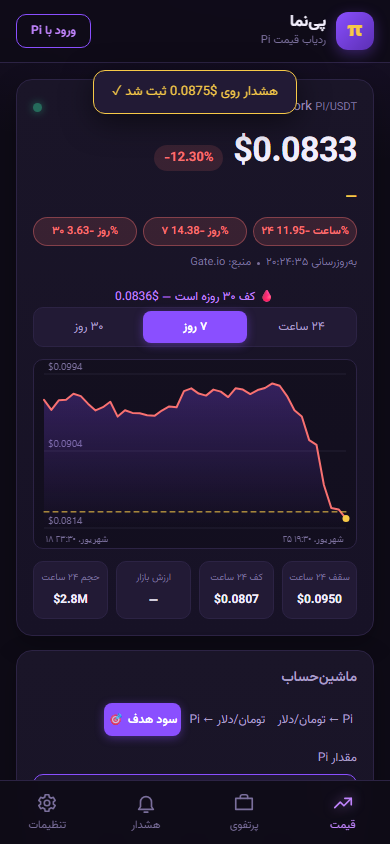
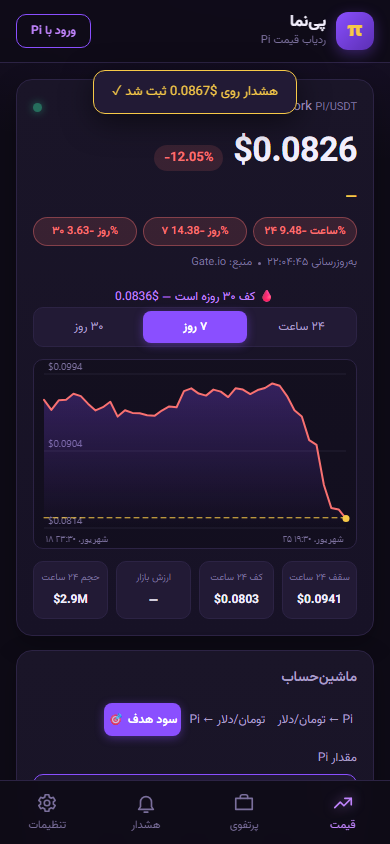
fix(cycle14): weekly portfolio chip now uses hist[7] (was oldest-of-60 or today → wrong/zero pct), reverse sync pfAvg→calcProfitAvg (one truth both directions), SW v10

diff --git a/test/render.js b/test/render.js
@@ -160,10 +160,17 @@ function t(name, cond, extra) {
   else { failed++; console.log('  ✗ ' + name + (extra ? ' → ' + extra : '')); }
 }
 
-/* seed رگرسیون: pfHistory با رکورد دیروز (مسیر بحرانی todayV که قبلاً میشکست) */
+/* seed رگرسیون: pfHistory با رکورد دیروز + ۸ رکورد (مسیر بحرانی todayV و چیپ هفتگی) */
 (function seedYesterday() {
   const y = new Date(Date.now() - 86400000).toLocaleDateString('en-CA');
   memStore['pinama.v2.pfHistory'] = JSON.stringify([{ d: y, v: 15 * 0.0900 }]);
+  // ۸ رکورد برای چیپ هفتگی: [0]=امروز (بعداً push میشود)، [1..7]=روزهای قبل با قیمتهای متفاوت
+  const seeds = [{ d: y, v: 1.35 }];
+  for (let i = 2; i <= 7; i++) {
+    const d = new Date(Date.now() - i * 86400000).toLocaleDateString('en-CA');
+    seeds.push({ d: d, v: 15 * (0.0800 + i * 0.001) }); // قدیمیها ~0.082–0.087
+  }
+  memStore['pinama.v2.pfHistory'] = JSON.stringify(seeds); // ۷ رکورد قبل از امروز
 })();
 
 /* اجرای DOMContentLoaded */
@@ -197,8 +204,9 @@ setTimeout(function () {
     } catch (e) { t('toman-first display toggles', false, e.message); }
     t('streak starts at 1 (not shown)', PiNama.storage.get('streak', 0) === 1 && getEl('streak-line').textContent === '', 'streak=' + PiNama.storage.get('streak', 0));
     t('live title set', String(document.title).indexOf('$0.0955') !== -1, 'got "' + document.title + '"');
-    t('day change snapshot exists', PiNama.storage.get('pfHistory', []).length === 2, 'len=' + PiNama.storage.get('pfHistory', []).length);
+    t('day change snapshot exists', PiNama.storage.get('pfHistory', []).length === 8, 'len=' + PiNama.storage.get('pfHistory', []).length);
     t('«از دیروز» renders (todayV fix)', String(getEl('pf-day-value').textContent).indexOf('از دیروز') !== -1, 'got "' + getEl('pf-day-value').textContent + '"');
+    t('weekly chip uses hist[7] not oldest', String(getEl('pf-week-value').textContent).indexOf('از ۷ روز قبل') !== -1, 'got "' + getEl('pf-week-value').textContent + '"');
     t('30d range line renders', getEl('range-line').textContent.length > 3, 'got "' + getEl('range-line').textContent + '"');
 
     /* دکمه هشدار سریع +۵٪ */

diff --git a/js/app.js b/js/app.js
@@ -325,14 +325,16 @@
       el.pfDayChange.className = 'pf-pl ' + (pct >= 0 ? 'gain' : 'loss');
       el.pfDayValue.textContent = (pct >= 0 ? '▲ ' : '▼ ') + fmt.pct(pct) + ' از دیروز';
 
-      // هفتگی: نسبت به رکورد ~۷ روز قبل (اگر تاریخچه کافی باشد)
+      // هفتگی: رکورد ۷ اسنپشات قبل (hist[0]=امروز، hist[7]=~۷ روز قبل)
       if (hist.length >= 8) {
-        var week = hist[hist.length - 8]; // قدیمیترین رکورد با سقف ۶۰
-        if (week && week.v > 0) {
+        var week = hist[7];
+        if (week && week.v > 0 && week.d !== today) {
           var wpct = (todayV / week.v - 1) * 100;
           el.pfWeekChange.hidden = false;
           el.pfWeekChange.className = 'pf-pl ' + (wpct >= 0 ? 'gain' : 'loss');
           el.pfWeekValue.textContent = (wpct >= 0 ? '▲ ' : '▼ ') + fmt.pct(wpct) + ' از ۷ روز قبل';
+        } else {
+          el.pfWeekChange.hidden = true;
         }
       } else {
         el.pfWeekChange.hidden = true;
@@ -615,7 +617,10 @@
     });
     el.pfAvg.addEventListener('input', function () {
       S.set(K.AVG_BUY, fmt.parse(el.pfAvg.value) || 0);
+      // sync معکوس: ماشینحساب سود همان میانگین را نشان دهد
+      if (el.calcProfitAvg.value !== el.pfAvg.value) el.calcProfitAvg.value = el.pfAvg.value;
       renderPortfolio();
+      renderCalc();
     });
 
     // هشدارها

diff --git a/sw.js b/sw.js
@@ -1,7 +1,7 @@
 /* پینما — Service Worker: کش آفلاین app shell + بهروزرسانی در پسزمینه */
 'use strict';
 
-const CACHE = 'pinama-v9';
+const CACHE = 'pinama-v10';
 
 /* app shell — همه با نسخهبندی implicit در CACHE name */
 const ASSETS = [
